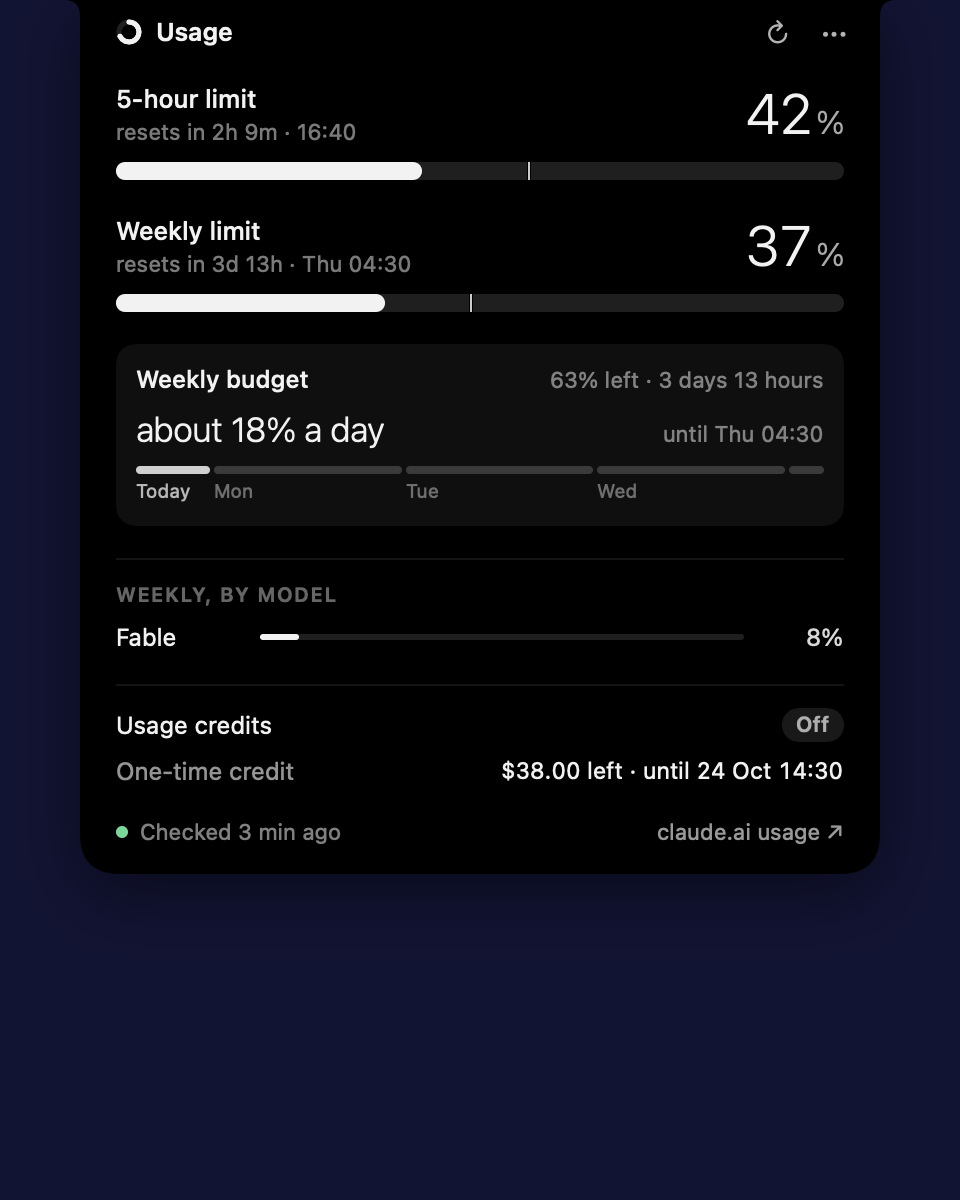
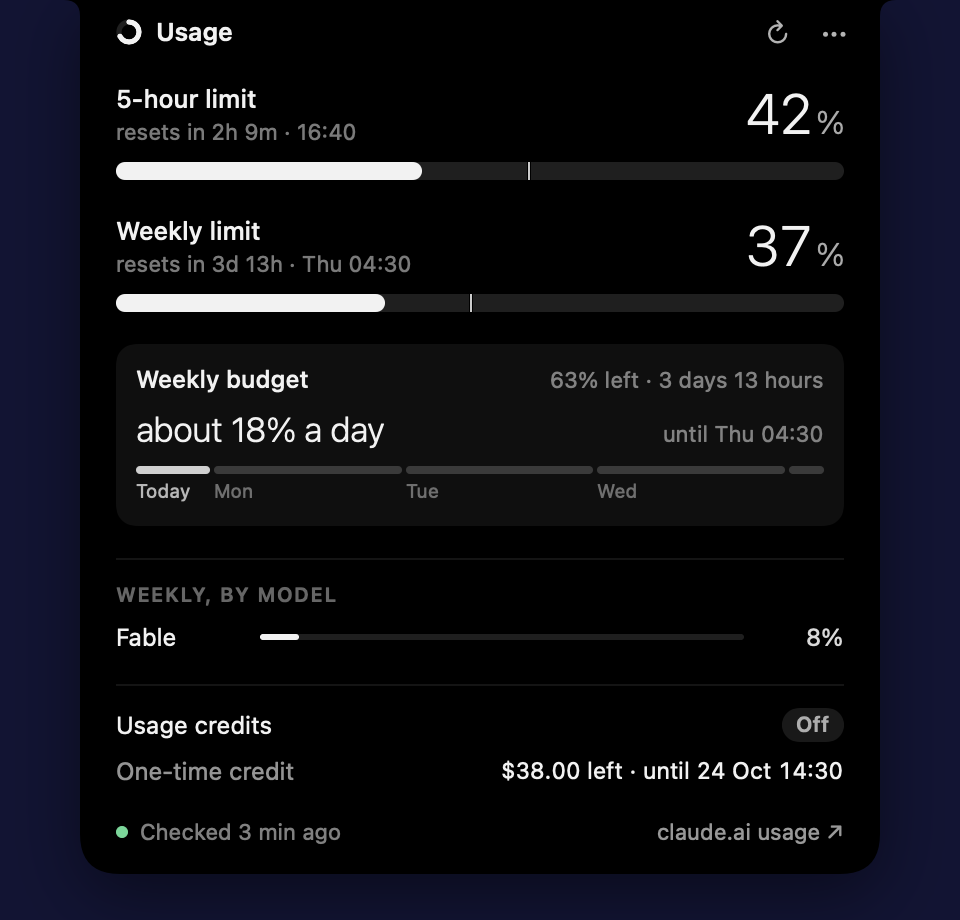
README: show rest, hover and click together near the top
The hover and open screenshots are cropped to the panel, without the
empty background below it.

diff --git a/README.md b/README.md
@@ -18,9 +18,11 @@ weekly limits, and the time until the 5-hour reset on the right.
 
 ![Hourglass at rest beside the notch](screenshots/rest.png)
 
-Hover for a quick look, or click to open the full view:
+Hover for a quick look at both limits, or click to open the full view:
 
-![The expanded notch](screenshots/open.png)
+| Hover | Click |
+| --- | --- |
+| <img src="screenshots/peek.png" alt="The hover view: 5-hour and weekly percentages" width="400"> | <img src="screenshots/open.png" alt="The expanded notch" width="400"> |
 
 ## What it shows
 
